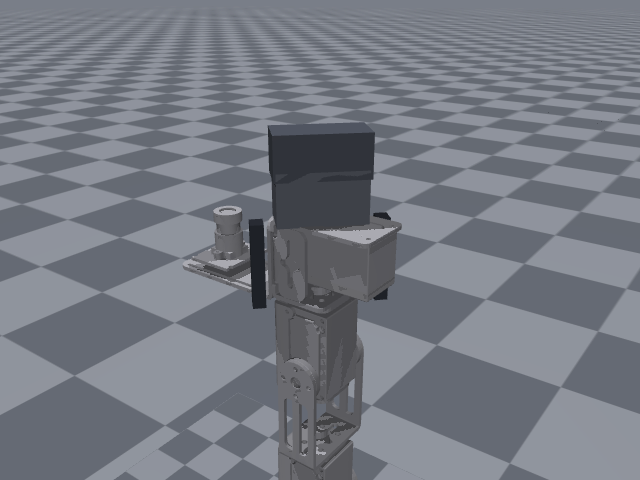
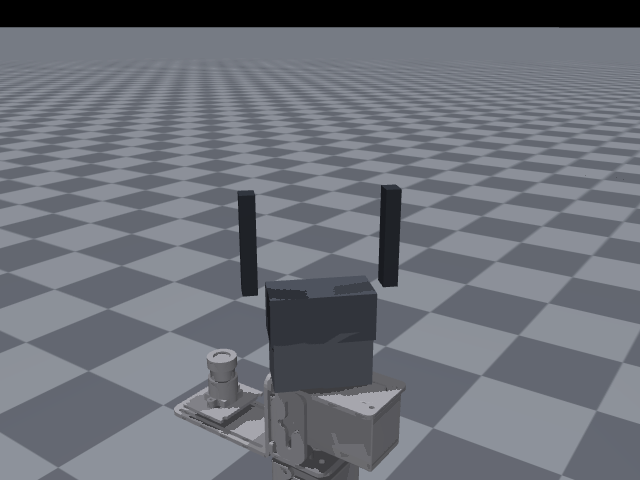
Point the fingers the right way: 40..80 mm along the tool axis
Putting them at -40..0 fixed the palm intersection but hung them back towards the arm, which
reads as a gripper mounted upside down -- the user spotted it in the recording. They now
continue from the palm's front face, 40..80 mm along the tool axis, and the fingertip
constant follows to 80 mm (30 mm beyond the TCP).

sim/gripper_geometry.png shows palm, then fingers, then nothing behind them.

Two seeds now lift the cube 5-6 mm before it slips, where before they could not touch it.
The remaining fault is in the approach: traced on seed (-60,140), the fingertip settles at
(-55, 96, 6) against a target of (-60, 140, 10) -- 44 mm short in y -- so the fingers close
around air.

diff --git a/src/dofbot_grasp/params.py b/src/dofbot_grasp/params.py
@@ -40,8 +40,9 @@ class JointParams:
     gripper_open_deg: float = 20.0
     gripper_shut_deg: float = 140.0
     # Measured: the fingertips sit ~56 mm below the TCP point.
-    #: palm 40 mm tall, fingers 40 mm long hanging below it, TCP 50 mm above link5
-    fingertip_below_tcp_m: float = 0.090
+    #: palm 0..40 mm along the tool axis, fingers 40..80 mm, so the fingertip is 80 mm
+    #: out from link5 and 30 mm beyond the TCP (which sits at 50 mm)
+    fingertip_below_tcp_m: float = 0.080
 
 
 @dataclass(frozen=True)

diff --git a/docs/camera-alignment.md b/docs/camera-alignment.md
@@ -107,9 +107,13 @@ The user spotted it in a recording: the finger boxes spanned link5 `-6 .. +40 mm
 palm (`link5_geom` 0..24 mm plus `gripper_base` 20..40 mm) occupies `0 .. 40 mm`, so the
 fingers passed straight through the palm.
 
-They now hang below it: 40 mm long, `-40 .. 0 mm`, touched only at the palm's underside
-(`sim/gripper_geometry.png`). That changes where the fingertips are: 90 mm below the TCP
-rather than 56, because the palm is 40 mm tall and the fingers hang another 40 below it.
+They now continue from its front face: 40 mm long, `40 .. 80 mm` along the tool axis
+(`sim/gripper_geometry.png`). Putting them at `-40 .. 0` first was wrong in the other
+direction -- that hangs them back towards the arm, which reads as a gripper mounted upside
+down, and the user caught it in the recording.
+
+The fingertip is therefore 80 mm out from link5 along the tool axis, 30 mm beyond the TCP
+(which sits at 50 mm).
 
 This has a consequence worth stating plainly. With the fingertips 90 mm below the TCP, the
 camera -- 56 mm off the tool axis, 25 mm above the fingertips -- only sees the cube when the
